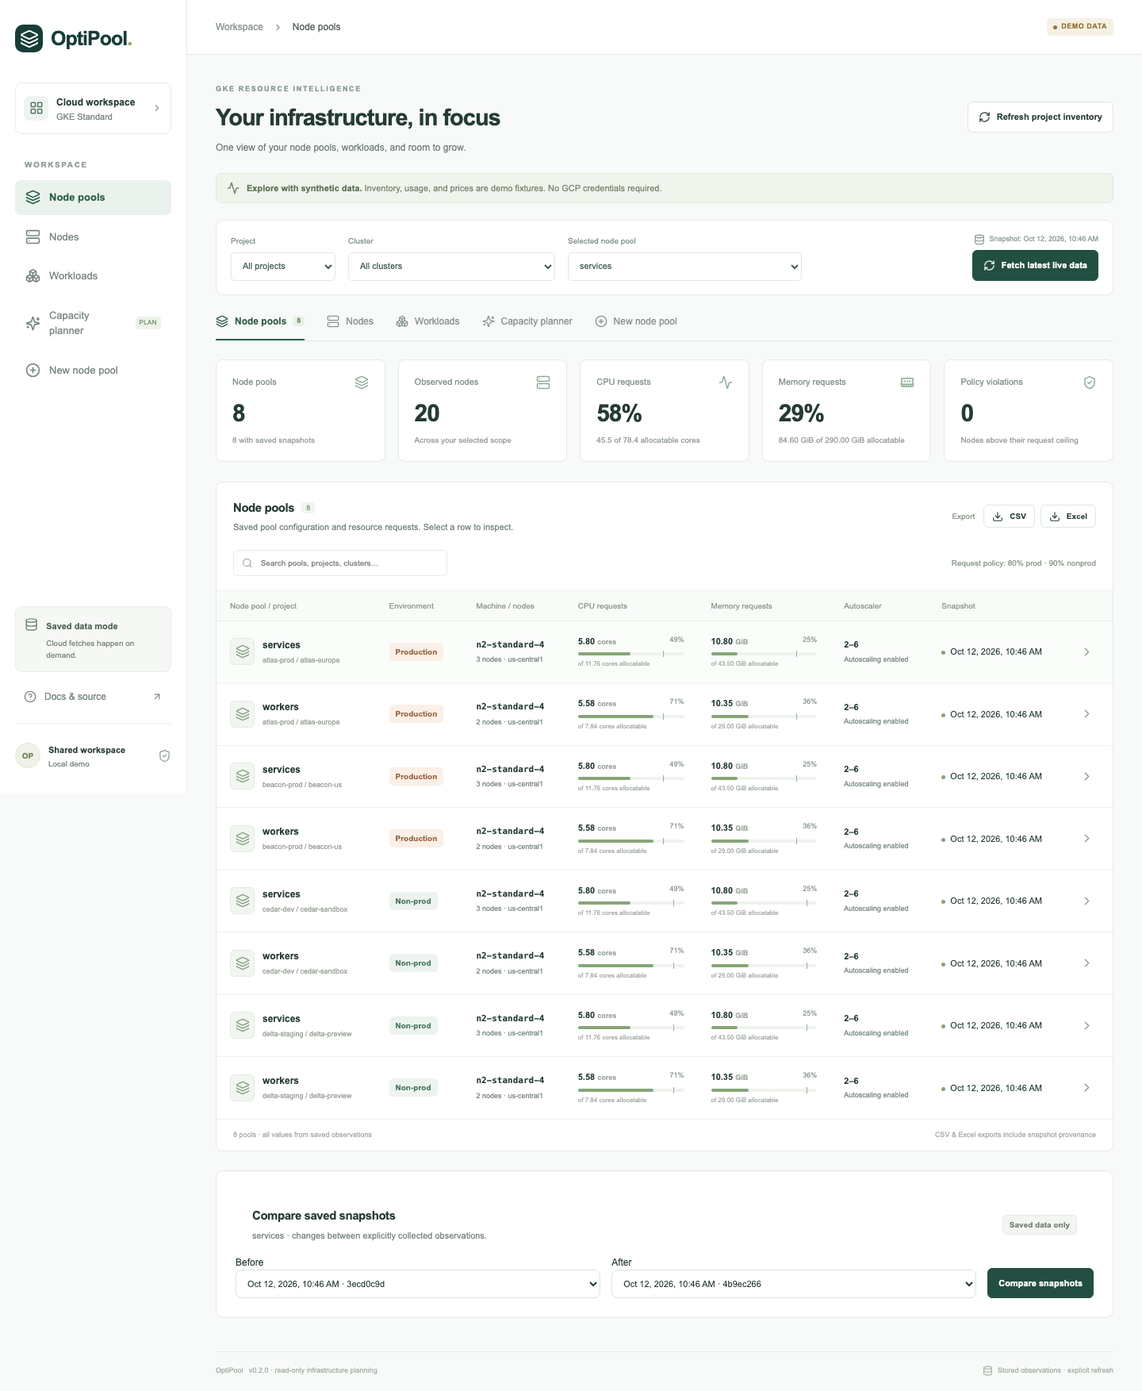
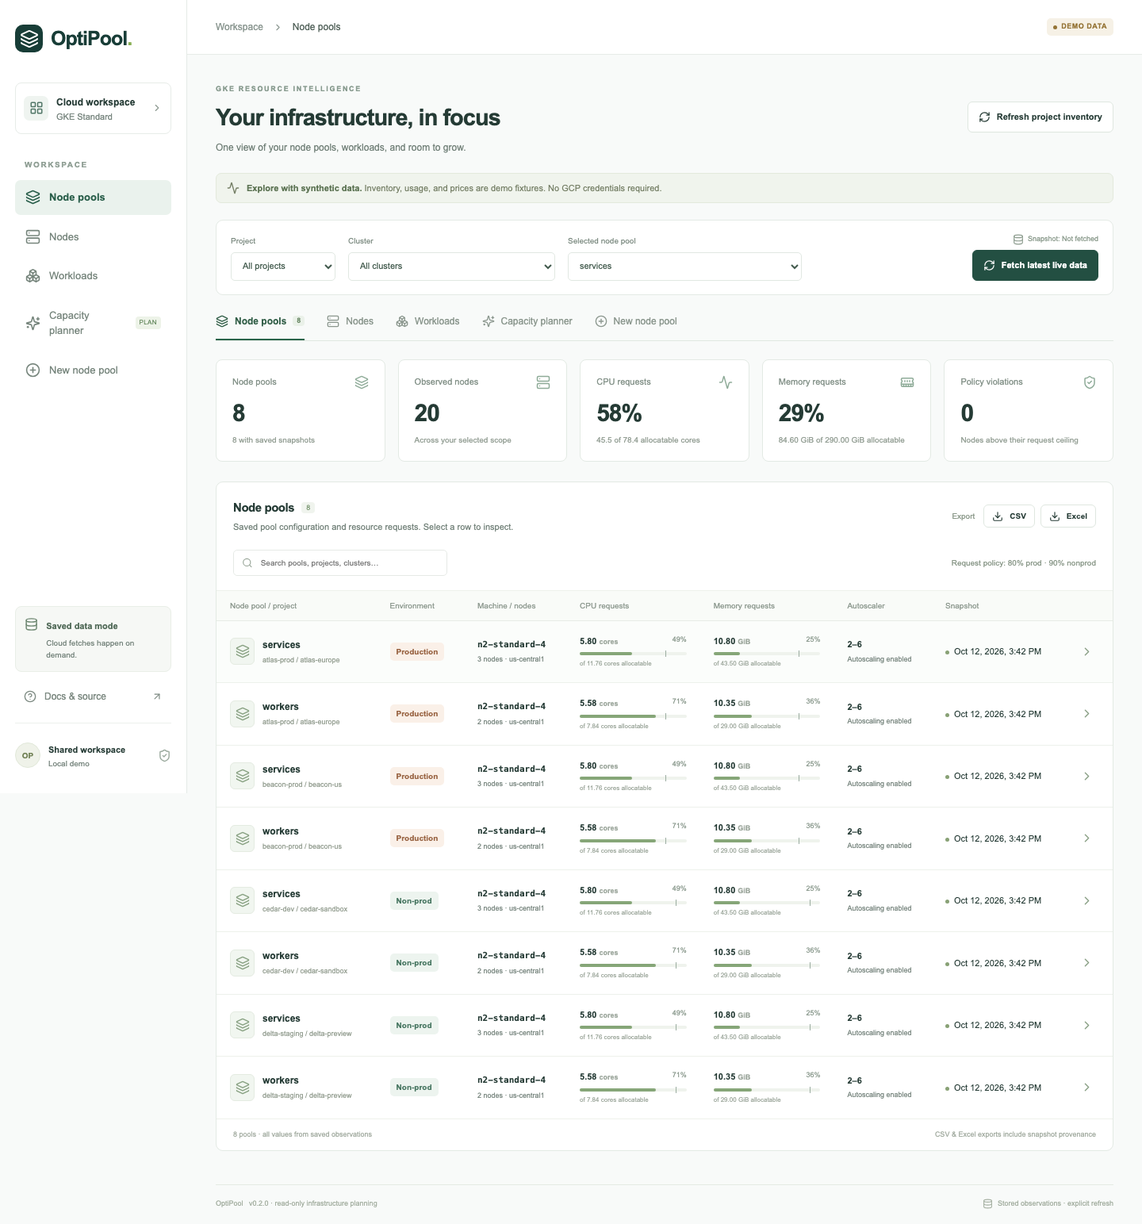
Record complete p99 verification and fresh synthetic benchmarks

diff --git a/docs/BUILD_PLAN.md b/docs/BUILD_PLAN.md
@@ -12,7 +12,7 @@ The user originally described four GCP projects, then chose **dynamic discovery*
 
 ### Current work and next steps
 
-The user authorized the fixes, all suggested features, Docker Desktop cluster testing, performance improvements, committing/pushing the completed work and publishing a new release after verification. **v0.2.0 is published**. Subsequent dashboard/planner changes are verified and pushed but unreleased. The six p99 evidence tickets are implemented locally on `codex/p99-evidence`; final combined verification and publication/closure follow the review fixes. This work does not authorize cloud configuration or a new release.
+The user authorized the fixes, all suggested features, Docker Desktop cluster testing, performance improvements, committing/pushing the completed work and publishing a new release after verification. **v0.2.0 is published**. Subsequent dashboard/planner changes are verified and pushed but unreleased. The six p99 evidence tickets are implemented and verified locally on `codex/p99-evidence`, including all review fixes; source publication and ticket closure follow this verification checkpoint. This work does not authorize cloud configuration or a new release.
 
 | Work                                                  | Current status                                      | Evidence / remaining work                                                                                                                                                                                                                                   |
 | ----------------------------------------------------- | --------------------------------------------------- | ----------------------------------------------------------------------------------------------------------------------------------------------------------------------------------------------------------------------------------------------------------- |
@@ -23,7 +23,7 @@ The user authorized the fixes, all suggested features, Docker Desktop cluster te
 | Multi-service capacity planner                        | Verified locally and in CI, pushed, unreleased      | Up to 20 services assessed jointly against one pinned pool snapshot; shared budgets, aggregate quotas/peak bounds, per-service placement and saved combined costs; covered by 81 backend tests and 6 browser flows                                          |
 | New node-pool design tab                              | Verified locally and in CI, pushed, unreleased      | Design only; compare up to 10 pinned observed profiles, empty proposed pool, saved costs, JSON download/history and retention of every supporting snapshot; synthetic Docker/Kind and benchmark verified                                                    |
 | Matt Pocock repository setup                          | Applied and verified                                | Approved AGENTS.md section and three docs/agents files; all five default GitHub triage labels exist, existing wontfix retained                                                                                                                              |
-| Highest-replica p99 evidence improvements             | Implemented locally; final verification pending | GitHub issues #2–#7 cover coverage gates, source consistency, retained/upstream replica history, finer cadence and historical risk evidence; native dependencies #5 blocked by #4 and #7 blocked by #2                                                      |
+| Highest-replica p99 evidence improvements             | Verified locally; unreleased | All six tickets implemented, both reviews clear; 144 backend cases, 11 browser journeys, complete style/build/Helm, Docker/Kind lifecycle and populated synthetic benchmarks pass; publication/closure checkpoint follows |
 | v0.1.0 original dashboard and distribution            | Released                                            | Immutable artifacts remain available; section 10                                                                                                                                                                                                            |
 | Nullable manifest resources and CUD eligibility fixes | Verified locally and in CI                          | Domain, HTTP and browser cases cover null/invalid fields and Not applicable/Unavailable/valid zero quotes                                                                                                                                                   |
 | Request recommendations                               | Verified locally and in CI                          | Configurable headroom, sampled peak floor, actual selected-replica deltas, sparse/missing coverage and OOM/restart guards                                                                                                                                   |
@@ -36,7 +36,7 @@ The user authorized the fixes, all suggested features, Docker Desktop cluster te
 | Live nonproduction/GKE acceptance                     | Pending operator prerequisites                      | Service account/access/networking, actual metrics/prices, IAP, backups and inventory-sized load                                                                                                                                                             |
 | v0.2.0 publication                                    | Released and verified                               | Commit `f6439f3`, tag `v0.2.0`; release workflow `38169391627` and main verification `38169367740` passed; public Helm pull/release checksums and anonymous AMD64/ARM64 image manifest verified                                                             |
 
-Latest post-v0.2 synthetic benchmark: 20 concurrent users, 16 pools, 40 nodes and 160 Pods; saved-view p95 **0.213s**, combined two-pool cluster p95 **0.243s**, estimate p95 **0.070s**, service-bundle p95 **0.056s** and two-profile new-pool design p95 **0.147s**, zero cloud calls during the workload. These are fixture measurements, not live network/IAP or actual-inventory acceptance. Performance varies by load and machine; no claim of globally optimal scheduling or fastest possible collection is made.
+Latest fully merged p99 synthetic benchmark: 20 concurrent users, 16 pools, 40 nodes and 160 Pods; saved-view p95 **0.826s**, combined two-pool cluster p95 **0.975s**, estimate p95 **0.051s**, service-bundle p95 **0.108s** and two-profile new-pool design p95 **0.412s**, zero cloud calls during the workload. These are fixture measurements, not live network/IAP or actual-inventory acceptance. Performance varies by load and machine; no claim of globally optimal scheduling or fastest possible collection is made. The fresh ten-day cadence comparison and machine-readable report are in docs/cadence-benchmark.md and docs/cadence-benchmark-synthetic.json.
 
 ## 2. Agreed requirements and invariants
 
@@ -322,8 +322,18 @@ Verification before merging ticket #7: 123 backend cases including 11 new upstre
 Ticket #5 integration checkpoint: merged ticket #7 integration tip locally. Upstream enrichment now precedes optional risk reads, known-current metadata carries available spec/container status, and history publication preserves the risk-retention hook. The 28 combined upstream/history/risk cases passed after merge, along with the merged TypeScript/Vite build, Ruff/Prettier, Helm lint and the upstream browser journey on port 8115. Root integration review and complete final checks remain separate; no issue closure, push, cloud mutation or release occurred in this implementer worktree.
 
 
-### Final review-fix checkpoint (local, pending root final verification)
+### Review-fix checkpoint (historical; superseded by final verification below)
 
 All nine Standards/Spec findings are addressed in one review-fix branch: exact native request/reply scope and identity; workload/UID/resource gap details; foreign risk UID rejection; compatible saved adverse risk recovery with fresh failure provenance; same-pool publication staging outside the shared SQLite lock; dedicated history/upstream CI and browser commands; design/support/changelog updates; authoritative current-status reconciliation; and one shared ordinary/restartable-init risk helper used by collection and evidence requirements. Native usage retains ordinary/init/ephemeral semantics.
 
 Red/green regressions exercise source-adapter responses, signed-IAP saved API/exports and public persistence/concurrency. A blocked external compressor verifies saved reads and other-pool writes during staging, while the same-pool next publication waits and inherits newly published historical evidence. Existing legacy-missing-risk coverage is separated from recovery of already validated saved counters; absent evidence is never converted to zero. Final combined backend/build/style/browser/Helm, Docker/Kind, fresh benchmarks and tracker/publication status will be recorded by the root after merging this checkpoint. No new schema version, release, cloud configuration or live acceptance is claimed. Older JSON shapes are readable with unknown missing fields; policy behavior after application rollback is not equivalent.
+
+### Final p99 integration verification — 12 October 2026
+
+Application head `149424692ec024dd1a0c870752c4b7ddb5151d7f` on `codex/p99-evidence` integrates tickets #2–#7 and review fixes `f09002ab`. Standards and Spec focused rechecks resolved all nine findings; the merger's 14 targeted regressions passed. Complete `scripts/check.sh` passed with **144 backend tests**, Ruff/format, TypeScript/Vite, Prettier and Helm lint/render/schema rejection/package. Backend imports explicitly used this checkout, avoiding the reused virtualenv's old editable source. Default browser 9/9, retained-history 1/1 and upstream-history 1/1 passed with separate temporary databases/ports. Updated synthetic screenshots were inspected.
+
+The Docker/Kind source image and packaged chart passed install, both Helm hooks, pool/cluster/pinned export/analytics/planning HTTP journeys, restart and temporary chart upgrade with exact snapshot IDs preserved. Uninstall retained the PVC; the script removed its own disposable cluster and restored the previous context. No real GCP calls or deployment occurred.
+
+The refreshed 20-user benchmark meets its saved-read/planning limits and makes zero monitoring calls; current figures are in the top summary and docs/benchmark-synthetic.json. Populated 10-day cadence results show 300/60-second query points 57,620/288,020, publication 3.1833/15.9011s, SQLite backup 1,122,304/5,009,408 bytes and cold 10-day saved view 0.5429/3.9236s. Both saved-read and retention assertions pass; warm reads use the immutable cache. These synthetic measurements include evidence processing and exclude actual cloud/network/IAP/scale. The 300-second default stays unchanged.
+
+At this verification checkpoint source publication and ticket closure are next; record them below when complete. Source is unreleased, public 0.2.0 artifacts remain immutable, and actual monitoring interval/counter semantics, access, prices, IAP, off-volume recovery and real inventory load still require operator/nonproduction acceptance. Risk and joined metadata collection stay opt-in; missing required evidence withholds reductions.

diff --git a/docs/IMPLEMENTATION_PROMPT.md b/docs/IMPLEMENTATION_PROMPT.md
@@ -240,7 +240,7 @@ Conclude with implemented behavior, tests actually run, benchmark evidence, comm
 
 As of 12 October 2026, public release 0.2.0 contains recommendations, richer Pod detail, HPA/rollout/zone scenarios, snapshot comparisons and loading/collector optimizations. Memory overview, pool-only labels, All node pools with combined saved tables/exports, clearer controller captions and Matt Pocock repository configuration are verified locally after that release. The latest checks comprise 81 backend cases, six browser flows, build/style/Helm checks and Docker/Kind lifecycle verification. Synthetic 20-user timings are approximately 0.213s saved-view p95, 0.243s two-pool cluster p95, 0.070s estimate p95, 0.056s service-bundle p95 and 0.147s two-profile design p95, with zero collection; Docker testing was running concurrently.
 
-Actual project IDs, collector identity and nonproduction access have not been provided. Validate real inventory/ownership/monitoring, reviewed public price mappings, IAP/Workload Identity/networking, off-volume backup restore and actual-scale load before production enablement. Wider controller p99, complete historical coverage without source proof, per-container usage, DNS-only control-plane support and globally optimal scheduling remain outside scope. Local p99 work now includes retained/upstream replica evidence and optional throttling/OOM/restart counters; final combined validation/publication is pending after review fixes. The post-release features and this prompt are published on main (feature commit 6f1db48, prompt commit e30abd0, checkpoint 4deec62). The public 0.2.0 artifacts remain immutable.
+Actual project IDs, collector identity and nonproduction access have not been provided. Validate real inventory/ownership/monitoring, reviewed public price mappings, IAP/Workload Identity/networking, off-volume backup restore and actual-scale load before production enablement. Wider controller p99, complete historical coverage without source proof, per-container usage, DNS-only control-plane support and globally optimal scheduling remain outside scope. Local p99 work now includes retained/upstream replica evidence and optional throttling/OOM/restart counters; final combined local verification passed after review fixes; source publication/ticket closure is recorded in BUILD_PLAN. The post-release features and this prompt are published on main (feature commit 6f1db48, prompt commit e30abd0, checkpoint 4deec62). The public 0.2.0 artifacts remain immutable.
 
 ## 20. Multi-service and new-pool design extension
 
@@ -250,7 +250,7 @@ Add a new-node-pool design tab. The user explicitly chose **design and estimate 
 
 ## 21. Highest-replica p99 evidence implementation (local, unreleased)
 
-All six tickets are implemented locally with independent evidence in saved API, dashboard and exports. The root is completing final combined verification/publication after Standards/Spec review fixes. Defaults are `min_metric_samples: 20`, `min_reduction_observation_seconds: 86400`, and `min_reduction_coverage: 0.9`; count the union of represented cadence intervals, clipped to creation, CPU warmup and bounded pool memberships. Require adequate evidence for every replica independently per resource; label observed partial maxima and unknown denominators, preserve guardrails and per-pool cutoffs, and key all policy inputs in the saved-view cache. Per-ticket verification checkpoints precede final combined verification and must not be presented as tests of a later integrated head. No release or real GCP acceptance is implied.
+All six tickets are implemented locally with independent evidence in saved API, dashboard and exports. All review findings are resolved and final combined local verification passed; publication/closure status is recorded in BUILD_PLAN. Defaults are `min_metric_samples: 20`, `min_reduction_observation_seconds: 86400`, and `min_reduction_coverage: 0.9`; count the union of represented cadence intervals, clipped to creation, CPU warmup and bounded pool memberships. Require adequate evidence for every replica independently per resource; label observed partial maxima and unknown denominators, preserve guardrails and per-pool cutoffs, and key all policy inputs in the saved-view cache. Per-ticket verification checkpoints precede final combined verification and must not be presented as tests of a later integrated head. No release or real GCP acceptance is implied.
 
 The user approved these six tickets on 12 October 2026. They are published with `ready-for-agent` in the OptiPool GitHub tracker. Keep the percentile estimator and independently highest-replica CPU/memory p99 semantics. Each ticket is a complete saved-data API, dashboard/export and verification slice; no cloud mutation, automatic refresh or release is authorized by ticket publication.
 
@@ -277,4 +277,4 @@ Valid upstream identities remain expected replicas across immutable publication/
 
 Review fixes preserve exact source and lifetime identity, scoped workload/UID/resource gaps, and already validated adverse counters when optional risk collection fails. Missing/Unavailable risk metadata selects one compatible retained source/query/cadence and carries collection warnings plus retained snapshot IDs into API/UI/exports. No historical identity or missing denominator is fabricated. One shared ordinary/restartable-init helper defines both collected and required risk containers; usage continues to include attributable ordinary/init/ephemeral containers.
 
-Same-pool history capture/staging/publication is serialized independently of the SQLite connection lock. Decode, merge and pack outside that shared lock; atomically insert full snapshot, overview and planning core in the final short transaction. Reads and other pool publications must remain available during staging, and a following same-pool publication must include the preceding snapshot. Preserve old pinned views, backup/restoration and retention behavior. New payload fields are additive with explicit unknown legacy evidence, not a guarantee that older app policy behaves equivalently on rollback. CI must run default, retained-history and upstream browser commands with isolated databases/import paths and configurable free localhost ports. Final root verification, Docker/Kind, benchmarks and ticket/publication status remain separate from these local implementation notes; do not claim live GCP validation, cloud source installation or a release.
+Same-pool history capture/staging/publication is serialized independently of the SQLite connection lock. Decode, merge and pack outside that shared lock; atomically insert full snapshot, overview and planning core in the final short transaction. Reads and other pool publications must remain available during staging, and a following same-pool publication must include the preceding snapshot. Preserve old pinned views, backup/restoration and retention behavior. New payload fields are additive with explicit unknown legacy evidence, not a guarantee that older app policy behaves equivalently on rollback. CI must run default, retained-history and upstream browser commands with isolated databases/import paths and configurable free localhost ports. Final root verification passed 144 backend cases, 11 browser journeys, full build/style/Helm, Docker/Kind lifecycle and populated synthetic benchmarks; consult BUILD_PLAN for publication/ticket status; do not claim live GCP validation, cloud source installation or a release.

diff --git a/docs/cadence-benchmark.md b/docs/cadence-benchmark.md
@@ -1,22 +1,22 @@
 # Synthetic ten-day cadence comparison
 
-Measured locally on 12 October 2026 with Python 3.13, ten Pods in one pool and namespace, and two GMP resource queries. `PYTHONPATH=backend .venv/bin/python scripts/cadence-benchmark.py` reproduces the experiment in temporary databases without credentials or network calls. Series use varying six-decimal CPU and memory values over ten days; the real collector parses the responses, publishes a compressed immutable SQLite snapshot, builds saved views, backs up the database, and prunes expired history through the public persistence interface.
+Measured locally on 12 October 2026 against the fully merged p99 implementation (`1494246`) with Python 3.13, ten Pods in one pool and namespace, and two GMP resource queries. `PYTHONPATH=backend .venv/bin/python scripts/cadence-benchmark.py` reproduces the experiment in temporary databases without credentials or network calls. Series use varying six-decimal CPU and memory values over ten days, with explicitly synthetic UID/pool membership proof; the real collector parses the responses, publishes a compressed immutable SQLite snapshot with retained provenance, builds populated saved views, backs up the database, and prunes expired history through the public persistence interface. Machine-readable results are in [cadence-benchmark-synthetic.json](cadence-benchmark-synthetic.json).
 
 | Measurement                                                |                300 seconds |                 60 seconds |
 | ---------------------------------------------------------- | -------------------------: | -------------------------: |
 | Synthetic GMP requests                                     |                          2 |                          2 |
 | Resource evaluation points                                 |                     57,620 |                    288,020 |
 | Saved Pod/timestamp samples                                |                     28,810 |                    144,010 |
-| Encoded source response bytes                              |                  1,608,365 |                  8,033,188 |
-| Synthetic collection plus publication                      |                   0.1883 s |                   0.9781 s |
-| Consistent SQLite backup, one snapshot                     |              651,264 bytes |            2,760,704 bytes |
-| Cold saved view, 1 / 5 / 10 days                           | 0.0395 / 0.0570 / 0.0814 s | 0.2214 / 0.2905 / 0.3995 s |
-| Warm 10-day saved view p95, 100 reads                      |                  0.0040 ms |                  0.0038 ms |
-| Encoded 10-day saved view                                  |              215,038 bytes |              992,330 bytes |
+| Encoded source response bytes                              |                  1,608,337 |                  8,032,951 |
+| Synthetic collection plus publication                      |                   3.1833 s |                  15.9011 s |
+| Consistent SQLite backup, one snapshot                     |            1,122,304 bytes |            5,009,408 bytes |
+| Cold saved view, 1 / 5 / 10 days                           | 0.4123 / 0.3251 / 0.5429 s | 3.3101 / 2.5702 / 3.9236 s |
+| Warm 10-day saved view p95, 100 reads                      |                  0.0039 ms |                  0.0038 ms |
+| Encoded 10-day saved view                                  |              269,109 bytes |            1,045,180 bytes |
 | Cloud calls during saved reads                             |                          0 |                          0 |
 | 31-day retention: old unreferenced pruned, latest retained |                     Passed |                     Passed |
 
-The inclusive endpoints yield approximately five times as many evaluation points and source bytes. Request count stays fixed for this small GMP batch; large source responses may require more native pages or hit upstream limits. Compressed database size grew 4.24 times for this waveform, which is not a general compression ratio. Daily full snapshots at this size would consume roughly 19.5 MB versus 82.8 MB over 30 snapshots before metadata, retained scenario references, WAL/transient write space and upstream historical evidence. Retention removes old unreferenced snapshots, preserves latest and scenario-referenced snapshots, and does not shrink the SQLite file automatically. Provision storage and backups for that retained physical high-water mark.
+The inclusive endpoints yield approximately five times as many evaluation points and source bytes. Request count stays fixed for this small GMP batch; large source responses may require more native pages or hit upstream limits. Compressed database size grew 4.46 times for this waveform, which is not a general compression ratio. Thirty copies at this one-snapshot size are roughly 33.7 MB versus 150.3 MB; real accumulated history, retained scenario references, WAL/transient write space and upstream historical evidence add storage. Retention removes old unreferenced snapshots, preserves latest and scenario-referenced snapshots, and does not shrink the SQLite file automatically. Provision storage and backups for that retained physical high-water mark.
 
 Cold reads parse complete compressed history before selecting a saved window, so a one-day view also pays part of the finer ten-day collection cost. Warm measurements time in-process immutable cache reads, excluding HTTP/IAP/browser/network transfer; larger windows grow serialized view bytes. Refresh timings include synthetic response generation and encoding, collector parsing, compression and publication, but exclude network delay, Google API quotas, real cluster cardinality and remote latency. A real GMP service can impose query evaluation-point or response-size limits; this experiment does not establish operational acceptance or automatic paging. There is no claim that a 60-second step eliminates CPU smoothing or captures all short memory spikes. Actual upstream enabled series and end-to-end costs require approved nonproduction testing.
 
